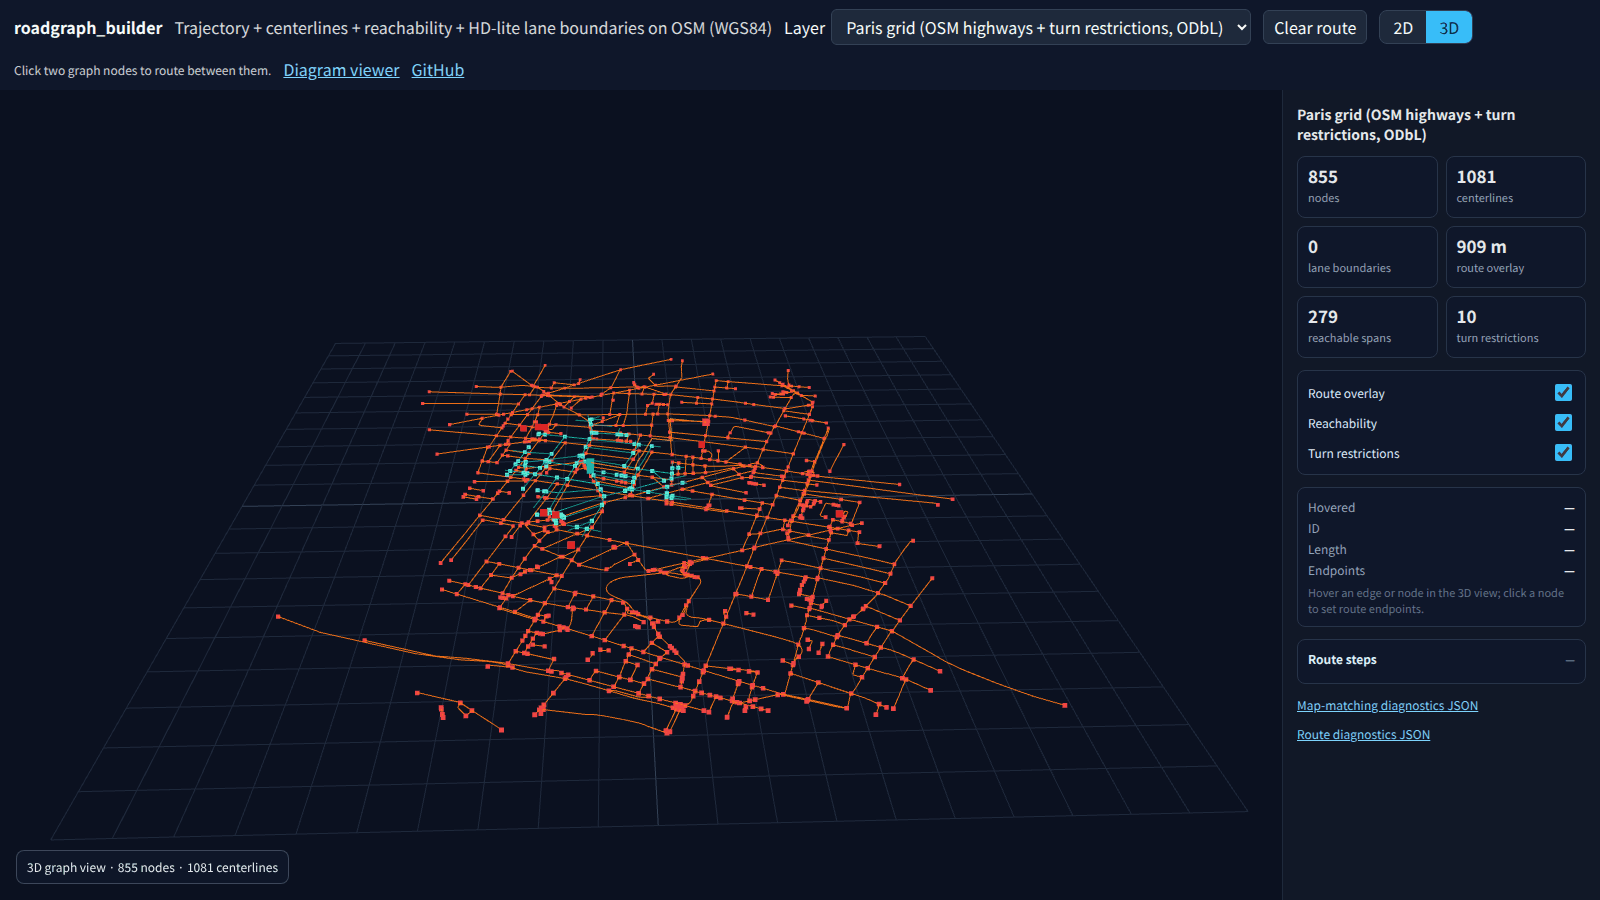
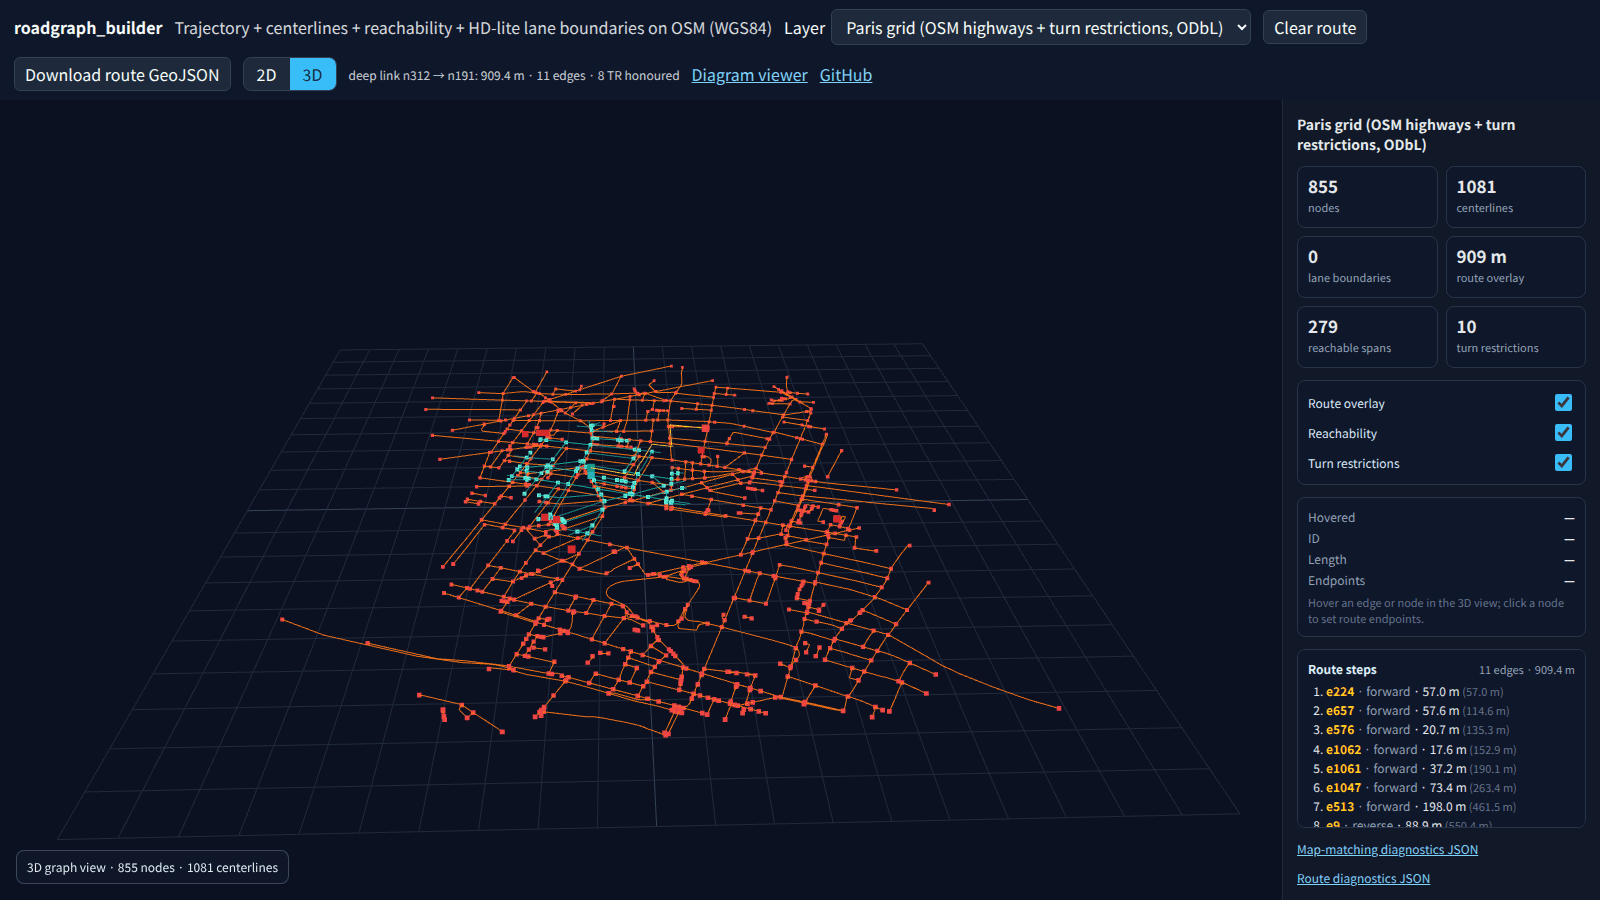
feat(viewer): export route as GeoJSON, auto-fit on deep link, bake route into hero shots
A deep link could restore a Paris TR-aware route and the inspector
listed every edge, but the experience still had two gaps: the 2D map
stayed at the dataset-wide zoom so shared links landed on the full
grid instead of the route, and there was no way to pull the route out
as a file — the only option was to copy-paste GeoJSON from the
browser. The committed hero screenshots also still showed an empty
inspector, so visitors browsing the README could not see what the
Route steps card looked like in practice.

Route export. `.bar` gains a `Download route GeoJSON` button next to
`Clear route`. It is disabled until a route is drawn, then streams
`scenePayload.route` as a `application/geo+json` Blob named
`route_<dataset>_<from>_<to>.geojson`. Click-to-route, deep link, and
future entries all flow through the same enable / disable path.

Deep-link auto-fit. `applyDeepLinkRoute()` now calls a small
`fitMapToRoute(coords)` helper that builds a Leaflet bounds from the
drawn polyline and fits the 2D view with padding 48 and a 17 max zoom.
Click-to-route intentionally does not auto-fit — the user is already
oriented and changing zoom mid-click is disorienting.

Hero screenshots. `scripts/render_map_console_screenshot.py` learned
`--from-node` / `--to-node` flags defaulting to `n312 / n191`, so
running it with no arguments now bakes the Paris TR-aware route and
its populated `#steps-card` into both committed PNGs. The 2D shot also
[…]

diff --git a/docs/js/map_console.js b/docs/js/map_console.js
@@ -1100,7 +1100,45 @@ function drawDynamicRoute(graph, dij) {
   });
   renderRouteSteps(graph, dij);
   syncRouteDeepLink(dij);
+  setDownloadRouteEnabled(true);
   if (activeView === "3d") render3DScene();
+}
+
+function setDownloadRouteEnabled(enabled) {
+  const btn = document.getElementById("download-route");
+  if (btn) btn.disabled = !enabled;
+}
+
+function fitMapToRoute(coords) {
+  if (!coords || !coords.length) return;
+  try {
+    const latlngs = coords.map((c) => [c[1], c[0]]);
+    const bounds = L.latLngBounds(latlngs);
+    if (bounds.isValid()) {
+      map.fitBounds(bounds, { padding: [48, 48], maxZoom: 17 });
+    }
+  } catch (_err) {
+    // best-effort; never break routing because of a fit hiccup.
+  }
+}
+
+function downloadRouteGeoJSON() {
+  const route = scenePayload.route;
+  if (!route) return;
+  const json = JSON.stringify(route, null, 2);
+  const blob = new Blob([json], { type: "application/geo+json" });
+  const url = URL.createObjectURL(blob);
+  const anchor = document.createElement("a");
+  const which = document.getElementById("dataset").value || "route";
+  const mainFeature = (route.features || []).find((f) => f.properties?.kind === "route");
+  const from = mainFeature?.properties?.from_node || "from";
+  const to = mainFeature?.properties?.to_node || "to";
+  anchor.href = url;
+  anchor.download = `route_${which}_${from}_${to}.geojson`;
+  document.body.appendChild(anchor);
+  anchor.click();
+  document.body.removeChild(anchor);
+  setTimeout(() => URL.revokeObjectURL(url), 1000);
 }
 
 function renderRouteSteps(graph, dij) {
@@ -1216,6 +1254,7 @@ function clearRoute() {
   updateInspector(document.getElementById("dataset").value, { routeLength: NaN });
   clearRouteSteps();
   syncRouteDeepLink(null);
+  setDownloadRouteEnabled(false);
   if (activeView === "3d") render3DScene();
   currentRouteSelection = { from: null, to: null };
   statusText("Click two graph nodes to route between them.");
@@ -1341,6 +1380,10 @@ document.getElementById("dataset").addEventListener("change", (e) => {
   show(e.target.value).catch((err) => alert(String(err)));
 });
 document.getElementById("clear-route").addEventListener("click", clearRoute);
+const downloadRouteBtn = document.getElementById("download-route");
+if (downloadRouteBtn) {
+  downloadRouteBtn.addEventListener("click", downloadRouteGeoJSON);
+}
 view2dButton.addEventListener("click", () => setView("2d"));
 view3dButton.addEventListener("click", () => setView("3d"));
 
@@ -1386,6 +1429,13 @@ function applyDeepLinkRoute(which, fromId, toId) {
     return;
   }
   drawDynamicRoute(graph, dij);
+  // Deep-link entry: zoom 2D to the route so users land on the full polyline
+  // rather than the dataset-wide view. Click-to-route keeps the current zoom
+  // because the user is already oriented.
+  const routeFeature = scenePayload.route?.features?.find(
+    (f) => f.properties?.kind === "route"
+  );
+  if (routeFeature) fitMapToRoute(routeFeature.geometry.coordinates);
   const trCount = graph.restrictions
     ? graph.restrictions.noT.size + graph.restrictions.onlyT.size
     : 0;

diff --git a/docs/map.html b/docs/map.html
@@ -356,6 +356,7 @@
         </select>
       </label>
       <button id="clear-route" title="Clear the current route selection">Clear route</button>
+      <button id="download-route" disabled title="Download the current route as GeoJSON">Download route GeoJSON</button>
       <span class="segmented" aria-label="View mode">
         <button type="button" id="view-2d" class="active" title="2D map view">2D</button>
         <button type="button" id="view-3d" title="3D graph view">3D</button>

diff --git a/scripts/render_map_console_screenshot.py b/scripts/render_map_console_screenshot.py
@@ -148,6 +148,22 @@ def main(argv: list[str] | None = None) -> int:
     parser.add_argument("--height", type=int, default=900)
     parser.add_argument("--dataset", default="paris_grid")
     parser.add_argument(
+        "--from-node",
+        dest="from_node",
+        default="n312",
+        help=(
+            "Deep-link ?from=<node>. Default n312 lands on the Paris TR-aware "
+            "route so the hero screenshots show an active route. Pass an empty "
+            "string to render without a deep-link route."
+        ),
+    )
+    parser.add_argument(
+        "--to-node",
+        dest="to_node",
+        default="n191",
+        help="Deep-link ?to=<node>. See --from-node.",
+    )
+    parser.add_argument(
         "--channel",
         default="chrome",
         help="Playwright Chromium distribution channel (default: chrome).",
@@ -172,8 +188,11 @@ def main(argv: list[str] | None = None) -> int:
     with _docs_server() as base:
         preflight = f"{base}map.html"
         _wait_for_http(preflight)
-        url_2d = f"{base}map.html?dataset={args.dataset}&view=2d"
-        url_3d = f"{base}map.html?dataset={args.dataset}&view=3d"
+        deep_link = ""
+        if args.from_node and args.to_node:
+            deep_link = f"&from={args.from_node}&to={args.to_node}"
+        url_2d = f"{base}map.html?dataset={args.dataset}&view=2d{deep_link}"
+        url_3d = f"{base}map.html?dataset={args.dataset}&view=3d{deep_link}"
         if args.only != "3d":
             _screenshot(
                 url=url_2d,

diff --git a/docs/PLAN.md b/docs/PLAN.md
@@ -6,7 +6,7 @@
 > このファイル → [`docs/ARCHITECTURE.md`](./ARCHITECTURE.md)（Mermaid 6 枚 + CLI 対応表 +
 > モジュール索引）→ [`CHANGELOG.md`](../CHANGELOG.md) の順。
 
-*最終更新: 2026-04-24 session（V1 実測 / camera warning fix / perf flake fix / docs sync / completions sync / Paris accuracy refresh / Berlin tuning sweep / README+docs visual preview + measured-results cards polish + README measured-results compacting / float32 opt-in + drift report + compare script + 1M synthetic memory profile + OSM public-trace replay profile / release bundle byte + normalized-manifest gate + manifest policy docs polish / private repo Pages blocked note / CLI boundary split wave 完了 / README release surface 整理 / v0.7.1 release + asset verification / packaging metadata smoke / 0.7.2.dev0 reopen / Actions Node24 update / release+PyPI dry-run / routing hot-path perf / nearest spatial index / cache invalidation hardening / build graph spatial merge perf / T-junction segment index perf / lean near-parallel merge loop / GeoJSON export compact path / compact bundle JSON writer / README quick-start smoke / release readiness dry-run refresh / reachable service-area CLI / reachable docs overlay / reachable benchmark coverage / benchmark baseline JSON / reachability analyzer perf / routing core split / RoutePlanner perf / GitHub star-growth surfaces / launch kit docs / safe A* routing / route explain diagnostics / route explain docs surface / route explain comparison UI / route diagnostics README screenshot / functional shortest_path planner cache + sampled validation / nearest-edge projection index / match-trajectory explain diagnostics / HMM bridge ambiguity benchmark / HMM adjacency reuse perf / HMM tail-cost cache / HMM long trajectory benchmark / edge-index cell tuning / 2D/3D map console / PLAN handoff expansion / map console pushed + CI green / Claude handoff refresh / map console hero screenshots / map console browser smoke opt-in pytest / map console JS split + 3D raycaster picking / map console deep link + route steps inspector）を反映済み。*
+*最終更新: 2026-04-24 session（V1 実測 / camera warning fix / perf flake fix / docs sync / completions sync / Paris accuracy refresh / Berlin tuning sweep / README+docs visual preview + measured-results cards polish + README measured-results compacting / float32 opt-in + drift report + compare script + 1M synthetic memory profile + OSM public-trace replay profile / release bundle byte + normalized-manifest gate + manifest policy docs polish / private repo Pages blocked note / CLI boundary split wave 完了 / README release surface 整理 / v0.7.1 release + asset verification / packaging metadata smoke / 0.7.2.dev0 reopen / Actions Node24 update / release+PyPI dry-run / routing hot-path perf / nearest spatial index / cache invalidation hardening / build graph spatial merge perf / T-junction segment index perf / lean near-parallel merge loop / GeoJSON export compact path / compact bundle JSON writer / README quick-start smoke / release readiness dry-run refresh / reachable service-area CLI / reachable docs overlay / reachable benchmark coverage / benchmark baseline JSON / reachability analyzer perf / routing core split / RoutePlanner perf / GitHub star-growth surfaces / launch kit docs / safe A* routing / route explain diagnostics / route explain docs surface / route explain comparison UI / route diagnostics README screenshot / functional shortest_path planner cache + sampled validation / nearest-edge projection index / match-trajectory explain diagnostics / HMM bridge ambiguity benchmark / HMM adjacency reuse perf / HMM tail-cost cache / HMM long trajectory benchmark / edge-index cell tuning / 2D/3D map console / PLAN handoff expansion / map console pushed + CI green / Claude handoff refresh / map console hero screenshots / map console browser smoke opt-in pytest / map console JS split + 3D raycaster picking / map console deep link + route steps inspector / map console route export + deep-link 自動 fit + hero screenshot refresh）を反映済み。*
 
 ---
 
@@ -341,6 +341,16 @@
       `clearRouteSteps()` で populate / hide。browser smoke に Paris `n312 → n191` deep link ケース
       を追加し、`#steps-card` 非 hidden + `li` が 3 本以上 + status に `deep link n312` + URL 末尾に
       `from=n312&to=n191` が残ることまで assert。
+  76. map console route export + deep-link 自動 fit + hero screenshot refresh。
+      `.bar` に `Download route GeoJSON` ボタンを追加し、route が draw された時のみ enable に切替、
+      `scenePayload.route` を Blob 化して `route_<dataset>_<from>_<to>.geojson` として download
+      させる。`applyDeepLinkRoute()` は `fitMapToRoute()` で 2D 地図を route bounds に自動 fit
+      （click-to-route 経由は今まで通り fit 無し）。`scripts/render_map_console_screenshot.py` に
+      `--from-node / --to-node` を追加し、default で `n312 → n191` deep link を焼き込んだ hero
+      screenshot を生成するよう変更、README / SHOWCASE の committed PNG を route が見える状態へ更新。
+      browser smoke の deep-link テストに `#download-route` enable 確認 + click → downloaded
+      GeoJSON が `FeatureCollection` / `kind=route` LineString / `from_node` / `to_node` を保持する
+      ことを assert する subprocess 追加。
 - **push 方針:** `git push` は user が `push!` などで明示するまで実行しない。
 - **未着手 (次の AI が触る候補):** ↓ §5 "Open tasks" 参照。
 
@@ -627,6 +637,13 @@
   inspector 右側の `#steps-card` には `renderRouteSteps(graph, dij)` が edge_id / direction /
   length / cumulative_m + 合計 edges / m を埋めるので、routing 結果を 3D 視覚と JSON 以外の第三の形で
   読み取れる。`clearRouteSteps()` は `Clear route` または dataset 切替で自動実行。
+  `applyDeepLinkRoute()` は 2D 地図を route bounds に自動 `map.fitBounds`（padding 48、maxZoom 17）。
+- **Route export:** `.bar` の `Download route GeoJSON` ボタン（route drawn 時のみ enable）が
+  `scenePayload.route` を `application/geo+json` Blob でクライアント download。
+  filename は `route_<dataset>_<from>_<to>.geojson`。ナビ診断 / route diff / CI サンプルに使える。
+- **Hero screenshot deep-link bake:** `scripts/render_map_console_screenshot.py --from-node / --to-node`
+  default が `n312 → n191` なので、README / SHOWCASE の committed PNG は常に Paris TR-aware route が
+  見えた状態で再生成される。
 - **dynamic route sync:** `drawDynamicRoute(graph, dij)` は Leaflet polyline だけでなく
   `scenePayload.route` の GeoJSON FeatureCollection も作る。これにより node click routing 後に
   3D view へ切り替えても同じ route が表示され、inspector の route metric も `dij.totalLength` で更新される。
@@ -784,12 +801,13 @@ code commit `342f61f` の release bundle / package build dry-run は PASS
 ただし README/SHOWCASE に埋め込む静的 hero 画像はまだ旧 `paris_grid_route.svg` 中心。
 次に触るなら以下の順が現実的。
 
-1. **README / Showcase に map-console screenshot を載せる** — ~~DONE 2026-04-24~~。
-   `docs/map.html` に `?view=2d|3d` と `?dataset=…` URL param + `body[data-ready]` ready signal を追加。
-   `scripts/render_map_console_screenshot.py` が local http.server + Playwright CLI (system Chrome)
-   で `docs/images/map_console_2d.png` (667 KB) / `map_console_3d.png` (77 KB) を PIL 256-color quantize
-   で圧縮して生成する。README "Visualization results" と `docs/SHOWCASE.md` に両 PNG を embed 済み。
-   再生成は OSM tiles / Leaflet / Three.js 外部 fetch 必要な点を両方の docstring/本文で明記。
+1. **README / Showcase に map-console screenshot を載せる** — ~~DONE 2026-04-24~~ (refresh: deep-link bake)。
+   `docs/map.html` に `?view=2d|3d` / `?dataset=…` / `?from=nXXX&to=nYYY` URL param + `body[data-ready]`
+   ready signal を追加。`scripts/render_map_console_screenshot.py` は default `--from-node n312
+   --to-node n191` を焼き込んで、committed PNG には Paris TR-aware route + Route steps card +
+   Download route GeoJSON ボタンが常に載る。PIL 256-color quantize で圧縮（2D ≈ 400 KB、3D ≈ 85 KB）。
+   README "Visualization results" と `docs/SHOWCASE.md` に両 PNG を embed 済み。再生成は OSM tiles /
+   Leaflet / Three.js 外部 fetch 必要な点を docstring / README に明記。
 2. **Optional browser smoke をテスト化** — ~~DONE 2026-04-24~~。
    `tests/js/map_console_smoke.spec.mjs` + `tests/test_map_console_browser_smoke.py` が
    `@pytest.mark.browser_smoke` で opt-in。`make viewer-smoke` = `pytest -m browser_smoke`。

diff --git a/README.md b/README.md
@@ -66,7 +66,7 @@ The docs map ships a Paris OSM-highway graph with 10 mapped turn restrictions, a
 
 [![Paris OSM-highway grid with a TR-aware route and 500 m reachability overlay](docs/images/paris_grid_route.svg)](docs/map.html)
 
-Open the interactive version locally: `cd docs && python3 -m http.server 8765`, then visit **`http://127.0.0.1:8765/map.html`** (add `?view=3d` for the 3D graph preview, `?dataset=paris` to switch to the public-GPS sample, `?from=n312&to=n191` to restore the Paris turn-restriction-aware route — the inspector's **Route steps** card lists each edge, direction, and cumulative length).
+Open the interactive version locally: `cd docs && python3 -m http.server 8765`, then visit **`http://127.0.0.1:8765/map.html`** (add `?view=3d` for the 3D graph preview, `?dataset=paris` to switch to the public-GPS sample, `?from=n312&to=n191` to restore the Paris turn-restriction-aware route — the 2D view auto-fits to the route, the inspector's **Route steps** card lists each edge / direction / cumulative length, and `Download route GeoJSON` streams the current route as `route_<dataset>_<from>_<to>.geojson`).
 
 ### Quick start
 
@@ -242,7 +242,7 @@ When Pages is available (public repo, Pages-capable private repo plan, or a sepa
 1. In the GitHub repo: **Settings → Pages → Build and deployment → Source**: **Deploy from a branch**, branch **`main`**, folder **`/docs`**, Save.
 2. After a minute, open the Pages URL shown by GitHub:
    - site root — diagram viewer (SVG-style pan/zoom)
-   - `map.html` — **real basemap + 3D graph console** (OSM tiles + GeoJSON: trajectory, centerlines, nodes, **HD-lite lane boundaries** when `attributes.hd` is filled — bundled assets use `enrich --lane-width-m 3.5` via `scripts/refresh_docs_assets.py`). Toggle between 2D Leaflet and a Three.js graph preview, inspect node/edge/lane/route/reachability/restriction counts, and switch route / reachability / restriction overlays without reloading. Click any two nodes to route between them; the JS Dijkstra is **directed-state and TR-aware** when the dataset ships a restrictions overlay, and dynamic routes update the 3D view and the **Route steps** inspector card (per-edge id, direction, length, cumulative) in lockstep. In 3D, hovering pauses auto-rotate and a `THREE.Raycaster` fills the **Hovered** card (kind, id, length, endpoints); clicking a node drives the same click-to-route as the 2D map. URL parameters are honoured and mirrored: `?view=3d`, `?dataset=…`, and `?from=nXXX&to=nYYY` all restore state, and drawing a route rewrites `from` / `to` via `history.replaceState` so the current route is copy-pasteable. The dropdown selects between four datasets:
+   - `map.html` — **real basemap + 3D graph console** (OSM tiles + GeoJSON: trajectory, centerlines, nodes, **HD-lite lane boundaries** when `attributes.hd` is filled — bundled assets use `enrich --lane-width-m 3.5` via `scripts/refresh_docs_assets.py`). Toggle between 2D Leaflet and a Three.js graph preview, inspect node/edge/lane/route/reachability/restriction counts, and switch route / reachability / restriction overlays without reloading. Click any two nodes to route between them; the JS Dijkstra is **directed-state and TR-aware** when the dataset ships a restrictions overlay, and dynamic routes update the 3D view and the **Route steps** inspector card (per-edge id, direction, length, cumulative) in lockstep. In 3D, hovering pauses auto-rotate and a `THREE.Raycaster` fills the **Hovered** card (kind, id, length, endpoints); clicking a node drives the same click-to-route as the 2D map. URL parameters are honoured and mirrored: `?view=3d`, `?dataset=…`, and `?from=nXXX&to=nYYY` all restore state, drawing a route rewrites `from` / `to` via `history.replaceState` so the current route is copy-pasteable, the 2D view auto-fits the route bounds on deep-link entry, and `Download route GeoJSON` exports the current route as a `route_<dataset>_<from>_<to>.geojson` FeatureCollection. The dropdown selects between four datasets:
      - **Paris grid** (default, 855 nodes / 1081 edges — derived from OSM highway ways, ships with 10 OSM turn restrictions as red-dot markers and a 500 m `reachable` overlay. ODbL.)
      - **Paris** (older, trajectory-derived, 123 edges / 223 nodes; from OSM public GPS, ODbL.)
      - **OSM Berlin sample** (4 edges, smaller).

diff --git a/CHANGELOG.md b/CHANGELOG.md
@@ -82,6 +82,21 @@ and this project adheres to [Semantic Versioning](https://semver.org/spec/v2.0.0
   browser smoke covers the `n312 → n191` deep link, asserting the card is
   visible, multiple steps render, and the URL retains `from` / `to`.
 
+- **Route export, deep-link auto-fit, and route-aware hero screenshots.**
+  A new `Download route GeoJSON` button next to `Clear route` becomes
+  enabled once a route is drawn and streams the current
+  `scenePayload.route` FeatureCollection as
+  `route_<dataset>_<from>_<to>.geojson`. Opening the console through a
+  deep link now re-fits the 2D map to the route polyline's bounds
+  (padding 48, max zoom 17) so users land on the route rather than the
+  dataset-wide view. `scripts/render_map_console_screenshot.py` picked
+  up `--from-node` / `--to-node`, defaulting to `n312 → n191`, so the
+  committed `docs/images/map_console_{2d,3d}.png` hero shots now show
+  the Paris TR-aware route, the populated Route steps card, the
+  deep-link status line, and the enabled download button. Browser
+  smoke asserts the download produces a valid GeoJSON FeatureCollection
+  with a `kind=route` LineString and preserved `from_node` / `to_node`.
+
 - **Reachability / service-area analysis is available from the routing CLI.**
   New `routing.reachability.reachable_within` and `roadgraph_builder reachable`
   report nodes and directed edge spans reachable from a start node within a
